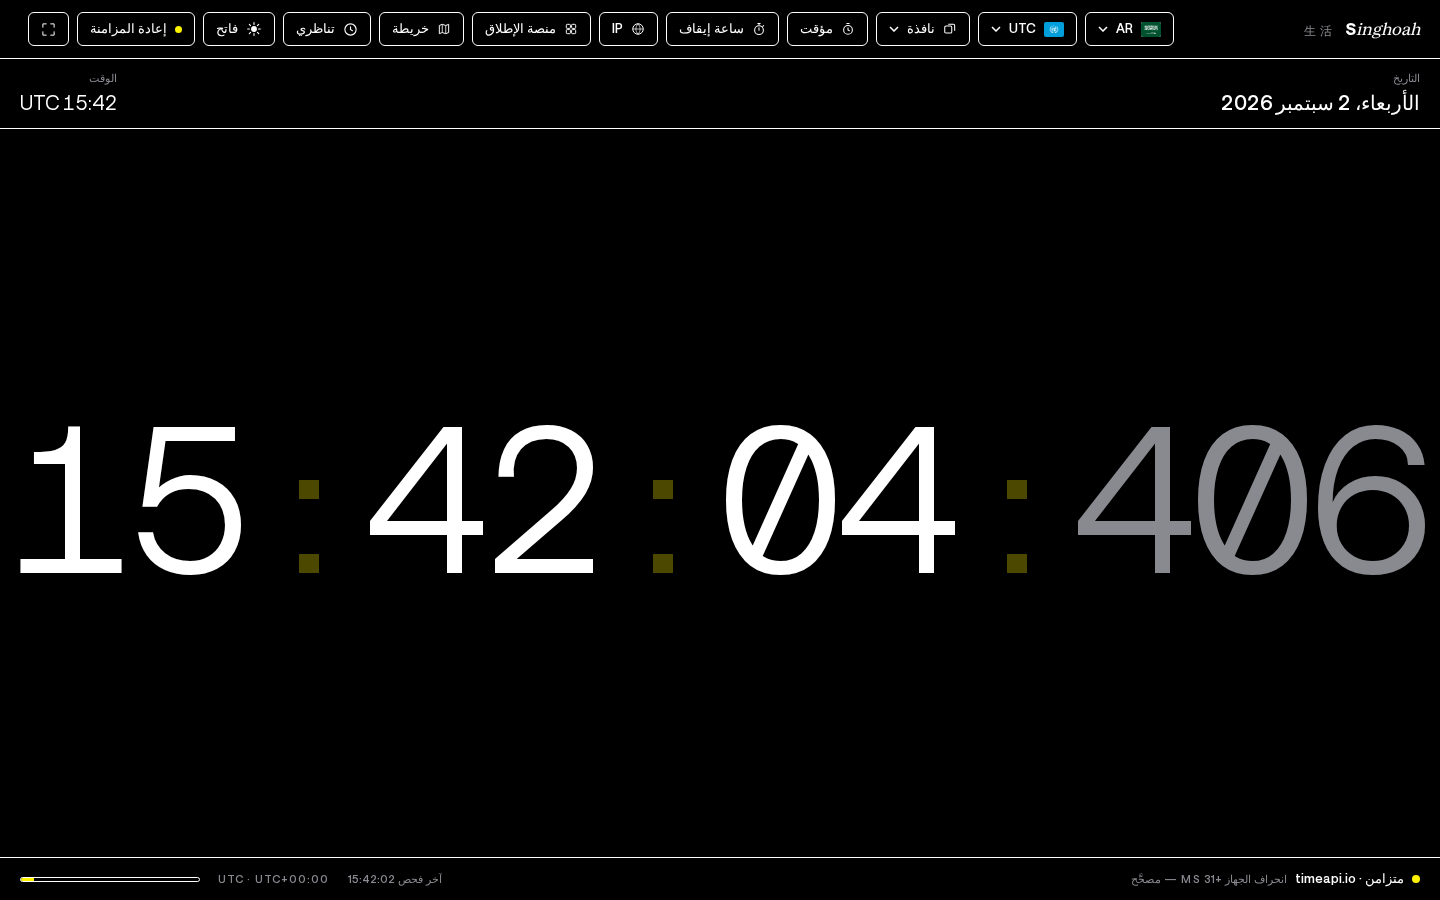
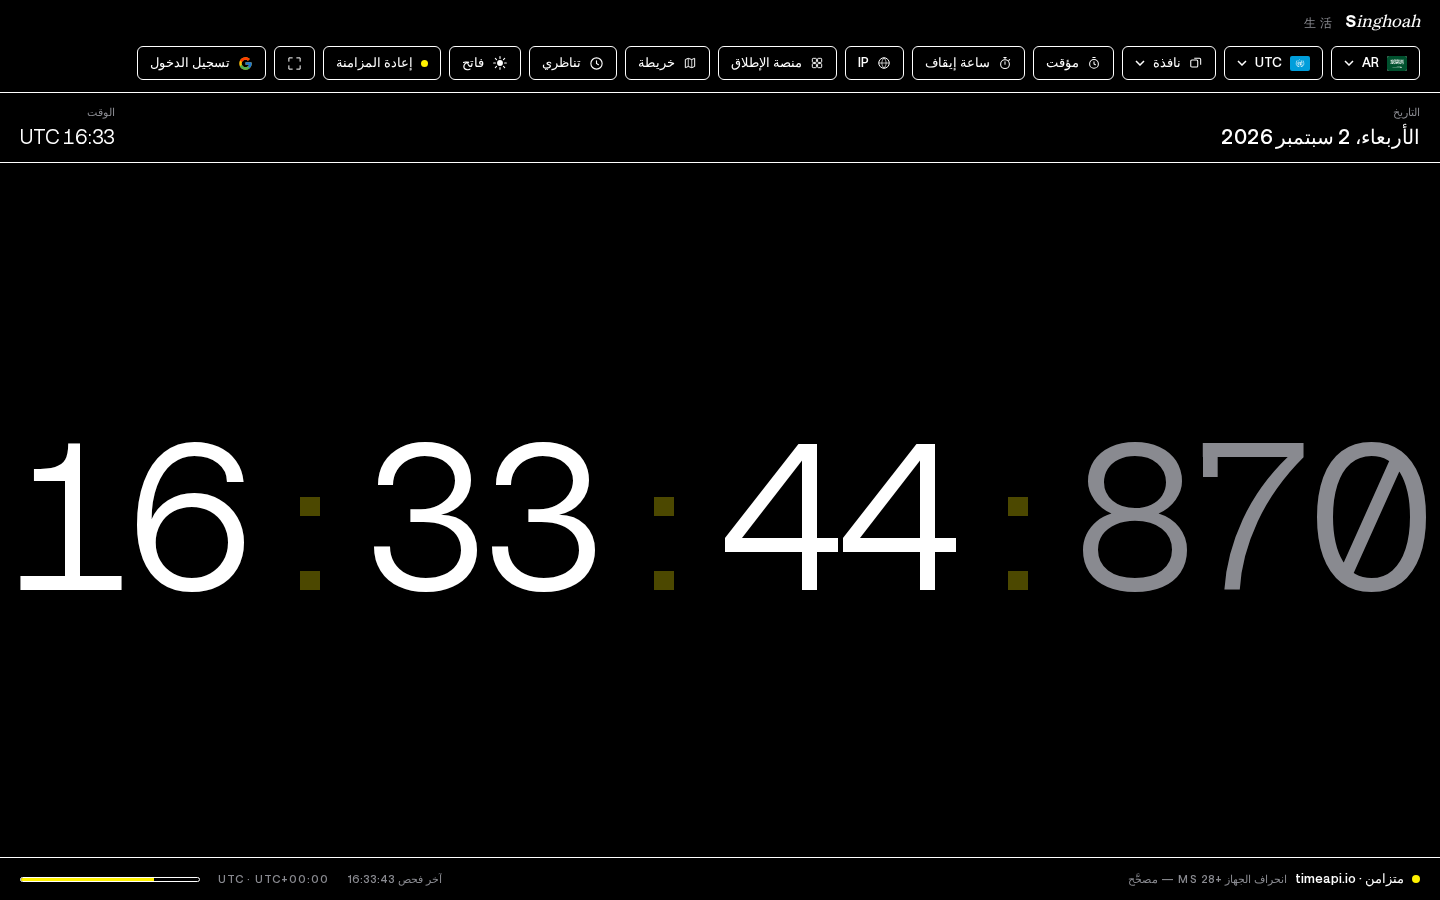
Wire live Firebase config (project singhoah1) + lazy-load the auth SDK

diff --git a/auth.js b/auth.js
@@ -1,25 +1,18 @@
 /* Optional "Sign in with Google" via Firebase Auth.
-   Silent unless firebase-config.js holds real keys; degrades to
-   nothing when offline. Preferences (language, theme, zone, wallet)
-   are kept per account on this device, restored on sign-in. */
+   Silent unless firebase-config.js holds real keys. The Firebase
+   SDK is fetched lazily — only when the visitor clicks Sign in, or
+   returns having been signed in before — so pages stay fast and
+   offline visitors never see an error. Preferences (language,
+   theme, zone, wallet) are kept per account on this device and
+   restored on sign-in. */
 
-const G_SVG = '<svg width="15" height="15" viewBox="0 0 48 48" aria-hidden="true"><path fill="#FFC107" d="M43.6 20.5H42V20H24v8h11.3C33.7 32.7 29.2 36 24 36c-6.6 0-12-5.4-12-12s5.4-12 12-12c3.1 0 5.9 1.2 8 3l5.7-5.7C34.5 6.1 29.5 4 24 4 13 4 4 13 4 24s9 20 20 20 20-9 20-20c0-1.2-.1-2.3-.4-3.5z"/><path fill="#FF3D00" d="M6.3 14.7l6.6 4.8C14.7 15.1 19 12 24 12c3.1 0 5.9 1.2 8 3l5.7-5.7C34.5 6.1 29.5 4 24 4 16.3 4 9.7 8.3 6.3 14.7z"/><path fill="#4CAF50" d="M24 44c5.2 0 9.9-2 13.4-5.2l-6.2-5.2C29.2 35.1 26.7 36 24 36c-5.2 0-9.6-3.3-11.3-8l-6.5 5C9.5 39.6 16.2 44 24 44z"/><path fill="#1976D2" d="M43.6 20.5H42V20H24v8h11.3c-.8 2.2-2.2 4.2-4.1 5.6l6.2 5.2C36.9 39.2 44 34 44 24c0-1.2-.1-2.3-.4-3.5z"/></svg>';
+const G_SVG = '<svg width="15" height="15" viewBox="0 0 48 48" aria-hidden="true"><path fill="#FFC107" d="M43.6 20.5H42V20H24v8h11.3C33.7 32.7 29.2 36 24 36c-6.6 0-12-5.4-12-12s5.4-12 12-12c3.1 0 5.9 1.2 8 3l5.7-5.7C34.5 6.1 29.5 4 24 4 13 4 4 13 4 24s9 20 20 20 20-9 20-20c0-1.2-.1-2.3-.4-3.5z"/><path fill="#FF3D00" d="M6.3 14.7l6.6 4.8C14.7 15.1 19.2 12 24 12c3.1 0 5.9 1.2 8 3l5.7-5.7C34.5 6.1 29.5 4 24 4 16.3 4 9.7 8.3 6.3 14.7z"/><path fill="#4CAF50" d="M24 44c5.2 0 9.9-2 13.4-5.2l-6.2-5.2C29.2 35.1 26.7 36 24 36c-5.2 0-9.6-3.3-11.3-8l-6.5 5C9.5 39.6 16.2 44 24 44z"/><path fill="#1976D2" d="M43.6 20.5H42V20H24v8h11.3c-.8 2.2-2.2 4.2-4.1 5.6l6.2 5.2C36.9 39.2 44 34 44 24c0-1.2-.1-2.3-.4-3.5z"/></svg>';
 
-(async () => {
+(() => {
   const wrap = document.getElementById('authWrap');
   if (!wrap) return;
   const CFG = globalThis.SINGHOAH_FIREBASE;
   if (!CFG || /PASTE|YOUR_/.test(`${CFG.apiKey}|${CFG.projectId}|${CFG.appId}`)) return;
-
-  let auth, G;
-  try {
-    const [appM, authM] = await Promise.all([
-      import('https://www.gstatic.com/firebasejs/10.12.2/firebase-app.js'),
-      import('https://www.gstatic.com/firebasejs/10.12.2/firebase-auth.js'),
-    ]);
-    G = authM;
-    auth = authM.getAuth(appM.initializeApp(CFG));
-  } catch { return; }   /* offline / blocked CDN: no portal */
 
   const PREF_KEYS = ['singhoah:lang', 'singhoah:night', 'singhoah:tz', 'singhoah:wallet'];
   const profileKey = (uid) => 'singhoah:profile:' + uid;
@@ -39,6 +32,18 @@ const G_SVG = '<svg width="15" height="15" viewBox="0 0 48 48" aria-hidden="true
   };
 
   let user = null;
+  let fb = null;               /* { G, auth } once the SDK is loaded */
+
+  function loadFB() {
+    if (fb) return Promise.resolve(fb);
+    return Promise.all([
+      import('https://www.gstatic.com/firebasejs/10.12.2/firebase-app.js'),
+      import('https://www.gstatic.com/firebasejs/10.12.2/firebase-auth.js'),
+    ]).then(([appM, authM]) => {
+      fb = { G: authM, auth: authM.getAuth(appM.initializeApp(CFG)) };
+      return fb;
+    });
+  }
 
   function render() {
     const t = tOf();
@@ -46,12 +51,15 @@ const G_SVG = '<svg width="15" height="15" viewBox="0 0 48 48" aria-hidden="true
     if (!user) {
       const b = document.createElement('button');
       b.type = 'button';
+      b.id = 'signinBtn';
       b.className = 'btn auth-btn';
       b.title = 'Google';
       b.innerHTML = `${G_SVG}<span></span>`;
       b.querySelector('span').textContent = t('signin');
       b.addEventListener('click', () => {
-        G.signInWithPopup(auth, new G.GoogleAuthProvider()).catch(() => { /* dismissed */ });
+        loadFB()
+          .then(({ G, auth }) => G.signInWithPopup(auth, new G.GoogleAuthProvider()))
+          .catch(() => { /* dismissed / offline: stay signed out */ });
       });
       wrap.appendChild(b);
       return;
@@ -96,7 +104,10 @@ const G_SVG = '<svg width="15" height="15" viewBox="0 0 48 48" aria-hidden="true
     out.textContent = t('signout');
     out.addEventListener('click', () => {
       try { sessionStorage.removeItem('singhoah:authrestored'); } catch { /* ignore */ }
-      G.signOut(auth);
+      try { localStorage.removeItem('singhoah:authseen'); } catch { /* ignore */ }
+      if (fb) fb.G.signOut(fb.auth);
+      user = null;
+      render();
     });
     pop.append(head, out);
     wrap.append(chip, pop);
@@ -109,30 +120,41 @@ const G_SVG = '<svg width="15" height="15" viewBox="0 0 48 48" aria-hidden="true
   });
   document.addEventListener('singhoah:lang', render);
 
-  G.onAuthStateChanged(auth, (u) => {
-    const was = user;
-    user = u;
-    if (u && !was) {
-      let saved = null;
-      try { saved = JSON.parse(localStorage.getItem(profileKey(u.uid)) || 'null'); } catch { /* ignore */ }
-      let restored = false;
-      try { restored = sessionStorage.getItem('singhoah:authrestored') === '1'; } catch { /* ignore */ }
-      if (saved && typeof saved === 'object' && !restored) {
-        for (const k of PREF_KEYS) if (typeof saved[k] === 'string') localStorage.setItem(k, saved[k]);
-        try { sessionStorage.setItem('singhoah:authrestored', '1'); } catch { /* ignore */ }
-        location.reload();   /* let every app pick up the restored prefs */
-        return;
-      }
-      if (!saved) {
-        try { localStorage.setItem(profileKey(u.uid), JSON.stringify(readPrefs())); } catch { /* ignore */ }
-      }
-    }
-    render();
-  });
+  function attach() {
+    loadFB().then(({ G, auth }) => {
+      G.onAuthStateChanged(auth, (u) => {
+        const was = user;
+        user = u;
+        if (u) {
+          try { localStorage.setItem('singhoah:authseen', '1'); } catch { /* ignore */ }
+        }
+        if (u && !was) {
+          let saved = null;
+          try { saved = JSON.parse(localStorage.getItem(profileKey(u.uid)) || 'null'); } catch { /* ignore */ }
+          let restored = false;
+          try { restored = sessionStorage.getItem('singhoah:authrestored') === '1'; } catch { /* ignore */ }
+          if (saved && typeof saved === 'object' && !restored) {
+            for (const k of PREF_KEYS) if (typeof saved[k] === 'string') localStorage.setItem(k, saved[k]);
+            try { sessionStorage.setItem('singhoah:authrestored', '1'); } catch { /* ignore */ }
+            location.reload();   /* let every app pick up the restored prefs */
+            return;
+          }
+          if (!saved) {
+            try { localStorage.setItem(profileKey(u.uid), JSON.stringify(readPrefs())); } catch { /* ignore */ }
+          }
+        }
+        render();
+      });
+      addEventListener('beforeunload', () => {
+        if (user) {
+          try { localStorage.setItem(profileKey(user.uid), JSON.stringify(readPrefs())); } catch { /* ignore */ }
+        }
+      });
+    }).catch(() => { /* offline / blocked CDN: button stays, no session */ });
+  }
 
-  addEventListener('beforeunload', () => {
-    if (user) {
-      try { localStorage.setItem(profileKey(user.uid), JSON.stringify(readPrefs())); } catch { /* ignore */ }
-    }
-  });
+  render();                                   /* Sign-in button, zero network */
+  let seen = false;
+  try { seen = localStorage.getItem('singhoah:authseen') === '1'; } catch { /* ignore */ }
+  if (seen) attach();                         /* restore a previous session */
 })();

diff --git a/src/auth.js b/src/auth.js
@@ -1,25 +1,18 @@
 /* Optional "Sign in with Google" via Firebase Auth.
-   Silent unless firebase-config.js holds real keys; degrades to
-   nothing when offline. Preferences (language, theme, zone, wallet)
-   are kept per account on this device, restored on sign-in. */
+   Silent unless firebase-config.js holds real keys. The Firebase
+   SDK is fetched lazily — only when the visitor clicks Sign in, or
+   returns having been signed in before — so pages stay fast and
+   offline visitors never see an error. Preferences (language,
+   theme, zone, wallet) are kept per account on this device and
+   restored on sign-in. */
 
-const G_SVG = '<svg width="15" height="15" viewBox="0 0 48 48" aria-hidden="true"><path fill="#FFC107" d="M43.6 20.5H42V20H24v8h11.3C33.7 32.7 29.2 36 24 36c-6.6 0-12-5.4-12-12s5.4-12 12-12c3.1 0 5.9 1.2 8 3l5.7-5.7C34.5 6.1 29.5 4 24 4 13 4 4 13 4 24s9 20 20 20 20-9 20-20c0-1.2-.1-2.3-.4-3.5z"/><path fill="#FF3D00" d="M6.3 14.7l6.6 4.8C14.7 15.1 19 12 24 12c3.1 0 5.9 1.2 8 3l5.7-5.7C34.5 6.1 29.5 4 24 4 16.3 4 9.7 8.3 6.3 14.7z"/><path fill="#4CAF50" d="M24 44c5.2 0 9.9-2 13.4-5.2l-6.2-5.2C29.2 35.1 26.7 36 24 36c-5.2 0-9.6-3.3-11.3-8l-6.5 5C9.5 39.6 16.2 44 24 44z"/><path fill="#1976D2" d="M43.6 20.5H42V20H24v8h11.3c-.8 2.2-2.2 4.2-4.1 5.6l6.2 5.2C36.9 39.2 44 34 44 24c0-1.2-.1-2.3-.4-3.5z"/></svg>';
+const G_SVG = '<svg width="15" height="15" viewBox="0 0 48 48" aria-hidden="true"><path fill="#FFC107" d="M43.6 20.5H42V20H24v8h11.3C33.7 32.7 29.2 36 24 36c-6.6 0-12-5.4-12-12s5.4-12 12-12c3.1 0 5.9 1.2 8 3l5.7-5.7C34.5 6.1 29.5 4 24 4 13 4 4 13 4 24s9 20 20 20 20-9 20-20c0-1.2-.1-2.3-.4-3.5z"/><path fill="#FF3D00" d="M6.3 14.7l6.6 4.8C14.7 15.1 19.2 12 24 12c3.1 0 5.9 1.2 8 3l5.7-5.7C34.5 6.1 29.5 4 24 4 16.3 4 9.7 8.3 6.3 14.7z"/><path fill="#4CAF50" d="M24 44c5.2 0 9.9-2 13.4-5.2l-6.2-5.2C29.2 35.1 26.7 36 24 36c-5.2 0-9.6-3.3-11.3-8l-6.5 5C9.5 39.6 16.2 44 24 44z"/><path fill="#1976D2" d="M43.6 20.5H42V20H24v8h11.3c-.8 2.2-2.2 4.2-4.1 5.6l6.2 5.2C36.9 39.2 44 34 44 24c0-1.2-.1-2.3-.4-3.5z"/></svg>';
 
-(async () => {
+(() => {
   const wrap = document.getElementById('authWrap');
   if (!wrap) return;
   const CFG = globalThis.SINGHOAH_FIREBASE;
   if (!CFG || /PASTE|YOUR_/.test(`${CFG.apiKey}|${CFG.projectId}|${CFG.appId}`)) return;
-
-  let auth, G;
-  try {
-    const [appM, authM] = await Promise.all([
-      import('https://www.gstatic.com/firebasejs/10.12.2/firebase-app.js'),
-      import('https://www.gstatic.com/firebasejs/10.12.2/firebase-auth.js'),
-    ]);
-    G = authM;
-    auth = authM.getAuth(appM.initializeApp(CFG));
-  } catch { return; }   /* offline / blocked CDN: no portal */
 
   const PREF_KEYS = ['singhoah:lang', 'singhoah:night', 'singhoah:tz', 'singhoah:wallet'];
   const profileKey = (uid) => 'singhoah:profile:' + uid;
@@ -39,6 +32,18 @@ const G_SVG = '<svg width="15" height="15" viewBox="0 0 48 48" aria-hidden="true
   };
 
   let user = null;
+  let fb = null;               /* { G, auth } once the SDK is loaded */
+
+  function loadFB() {
+    if (fb) return Promise.resolve(fb);
+    return Promise.all([
+      import('https://www.gstatic.com/firebasejs/10.12.2/firebase-app.js'),
+      import('https://www.gstatic.com/firebasejs/10.12.2/firebase-auth.js'),
+    ]).then(([appM, authM]) => {
+      fb = { G: authM, auth: authM.getAuth(appM.initializeApp(CFG)) };
+      return fb;
+    });
+  }
 
   function render() {
     const t = tOf();
@@ -46,12 +51,15 @@ const G_SVG = '<svg width="15" height="15" viewBox="0 0 48 48" aria-hidden="true
     if (!user) {
       const b = document.createElement('button');
       b.type = 'button';
+      b.id = 'signinBtn';
       b.className = 'btn auth-btn';
       b.title = 'Google';
       b.innerHTML = `${G_SVG}<span></span>`;
       b.querySelector('span').textContent = t('signin');
       b.addEventListener('click', () => {
-        G.signInWithPopup(auth, new G.GoogleAuthProvider()).catch(() => { /* dismissed */ });
+        loadFB()
+          .then(({ G, auth }) => G.signInWithPopup(auth, new G.GoogleAuthProvider()))
+          .catch(() => { /* dismissed / offline: stay signed out */ });
       });
       wrap.appendChild(b);
       return;
@@ -96,7 +104,10 @@ const G_SVG = '<svg width="15" height="15" viewBox="0 0 48 48" aria-hidden="true
     out.textContent = t('signout');
     out.addEventListener('click', () => {
       try { sessionStorage.removeItem('singhoah:authrestored'); } catch { /* ignore */ }
-      G.signOut(auth);
+      try { localStorage.removeItem('singhoah:authseen'); } catch { /* ignore */ }
+      if (fb) fb.G.signOut(fb.auth);
+      user = null;
+      render();
     });
     pop.append(head, out);
     wrap.append(chip, pop);
@@ -109,30 +120,41 @@ const G_SVG = '<svg width="15" height="15" viewBox="0 0 48 48" aria-hidden="true
   });
   document.addEventListener('singhoah:lang', render);
 
-  G.onAuthStateChanged(auth, (u) => {
-    const was = user;
-    user = u;
-    if (u && !was) {
-      let saved = null;
-      try { saved = JSON.parse(localStorage.getItem(profileKey(u.uid)) || 'null'); } catch { /* ignore */ }
-      let restored = false;
-      try { restored = sessionStorage.getItem('singhoah:authrestored') === '1'; } catch { /* ignore */ }
-      if (saved && typeof saved === 'object' && !restored) {
-        for (const k of PREF_KEYS) if (typeof saved[k] === 'string') localStorage.setItem(k, saved[k]);
-        try { sessionStorage.setItem('singhoah:authrestored', '1'); } catch { /* ignore */ }
-        location.reload();   /* let every app pick up the restored prefs */
-        return;
-      }
-      if (!saved) {
-        try { localStorage.setItem(profileKey(u.uid), JSON.stringify(readPrefs())); } catch { /* ignore */ }
-      }
-    }
-    render();
-  });
+  function attach() {
+    loadFB().then(({ G, auth }) => {
+      G.onAuthStateChanged(auth, (u) => {
+        const was = user;
+        user = u;
+        if (u) {
+          try { localStorage.setItem('singhoah:authseen', '1'); } catch { /* ignore */ }
+        }
+        if (u && !was) {
+          let saved = null;
+          try { saved = JSON.parse(localStorage.getItem(profileKey(u.uid)) || 'null'); } catch { /* ignore */ }
+          let restored = false;
+          try { restored = sessionStorage.getItem('singhoah:authrestored') === '1'; } catch { /* ignore */ }
+          if (saved && typeof saved === 'object' && !restored) {
+            for (const k of PREF_KEYS) if (typeof saved[k] === 'string') localStorage.setItem(k, saved[k]);
+            try { sessionStorage.setItem('singhoah:authrestored', '1'); } catch { /* ignore */ }
+            location.reload();   /* let every app pick up the restored prefs */
+            return;
+          }
+          if (!saved) {
+            try { localStorage.setItem(profileKey(u.uid), JSON.stringify(readPrefs())); } catch { /* ignore */ }
+          }
+        }
+        render();
+      });
+      addEventListener('beforeunload', () => {
+        if (user) {
+          try { localStorage.setItem(profileKey(user.uid), JSON.stringify(readPrefs())); } catch { /* ignore */ }
+        }
+      });
+    }).catch(() => { /* offline / blocked CDN: button stays, no session */ });
+  }
 
-  addEventListener('beforeunload', () => {
-    if (user) {
-      try { localStorage.setItem(profileKey(user.uid), JSON.stringify(readPrefs())); } catch { /* ignore */ }
-    }
-  });
+  render();                                   /* Sign-in button, zero network */
+  let seen = false;
+  try { seen = localStorage.getItem('singhoah:authseen') === '1'; } catch { /* ignore */ }
+  if (seen) attach();                         /* restore a previous session */
 })();

diff --git a/firebase-config.js b/firebase-config.js
@@ -1,23 +1,22 @@
 /* ============================================================
    Singhoah — Firebase web-app config (optional Google sign-in)
 
-   Setup (once, in your own Google account):
-   1. https://console.firebase.google.com → Add project (any name).
-   2. Project settings → "Your apps" → Web (</>) → Register app.
-   3. Copy the firebaseConfig values into the object below.
-   4. Build → Authentication → Get started → Sign-in method →
-      enable "Google".
-   5. Authentication → Settings → Authorized domains → add
-      maxander08.github.io  (localhost is pre-added for dev).
-   6. Rebuild (python3 build.py) and push; the Sign-in button
-      appears on all three apps.
+   Live config for project "singhoah1" (owner: maxander08).
+   The portal renders the Sign-in button whenever this object
+   holds real values; the Firebase SDK itself is only fetched
+   when the visitor clicks Sign in (or returns signed-in).
 
-   Until real values are pasted here the portal stays completely
-   hidden and every app behaves exactly as before.
+   For your own fork: console.firebase.google.com → your project
+   → Project settings → Your apps → web app → Config, and paste
+   your four values below. To keep the portal dormant, put back
+   the PASTE_/YOUR_ placeholders.
    ============================================================ */
 globalThis.SINGHOAH_FIREBASE = {
-  apiKey: "PASTE_YOUR_API_KEY",
-  authDomain: "YOUR_PROJECT.firebaseapp.com",
-  projectId: "YOUR_PROJECT",
-  appId: "PASTE_YOUR_APP_ID",
+  apiKey: "AIzaSyB1KtuJ2D6tqjH76kLedbBtaZXHhczT_kc",
+  authDomain: "singhoah1.firebaseapp.com",
+  projectId: "singhoah1",
+  storageBucket: "singhoah1.firebasestorage.app",
+  messagingSenderId: "1039848089676",
+  appId: "1:1039848089676:web:8d3df49328bc5a2730ace9",
+  measurementId: "G-PPRM1R6V95",
 };

diff --git a/src/firebase-config.js b/src/firebase-config.js
@@ -1,23 +1,22 @@
 /* ============================================================
    Singhoah — Firebase web-app config (optional Google sign-in)
 
-   Setup (once, in your own Google account):
-   1. https://console.firebase.google.com → Add project (any name).
-   2. Project settings → "Your apps" → Web (</>) → Register app.
-   3. Copy the firebaseConfig values into the object below.
-   4. Build → Authentication → Get started → Sign-in method →
-      enable "Google".
-   5. Authentication → Settings → Authorized domains → add
-      maxander08.github.io  (localhost is pre-added for dev).
-   6. Rebuild (python3 build.py) and push; the Sign-in button
-      appears on all three apps.
+   Live config for project "singhoah1" (owner: maxander08).
+   The portal renders the Sign-in button whenever this object
+   holds real values; the Firebase SDK itself is only fetched
+   when the visitor clicks Sign in (or returns signed-in).
 
-   Until real values are pasted here the portal stays completely
-   hidden and every app behaves exactly as before.
+   For your own fork: console.firebase.google.com → your project
+   → Project settings → Your apps → web app → Config, and paste
+   your four values below. To keep the portal dormant, put back
+   the PASTE_/YOUR_ placeholders.
    ============================================================ */
 globalThis.SINGHOAH_FIREBASE = {
-  apiKey: "PASTE_YOUR_API_KEY",
-  authDomain: "YOUR_PROJECT.firebaseapp.com",
-  projectId: "YOUR_PROJECT",
-  appId: "PASTE_YOUR_APP_ID",
+  apiKey: "AIzaSyB1KtuJ2D6tqjH76kLedbBtaZXHhczT_kc",
+  authDomain: "singhoah1.firebaseapp.com",
+  projectId: "singhoah1",
+  storageBucket: "singhoah1.firebasestorage.app",
+  messagingSenderId: "1039848089676",
+  appId: "1:1039848089676:web:8d3df49328bc5a2730ace9",
+  measurementId: "G-PPRM1R6V95",
 };

diff --git a/README.md b/README.md
@@ -134,7 +134,9 @@ Clock / wallet / launchpad each carry a small **optional** sign-in portal in the
 preferences (language, theme, city, wallet currency) sync per account across devices and
 browsers. Everything stays public without it — no sign-in wall.
 
-It ships **dormant** with a placeholder config. To light it up (free tier is plenty):
+This repo ships configured for the live `maxander08.github.io` deployment
+(Firebase project `singhoah1`, free Spark tier). For your own fork, point it at your own
+project:
 
 1. Go to <https://console.firebase.google.com> → *Add project* (any name, e.g. `singhoah`).
 2. In the project: *Build → Authentication → Get started → Sign-in method* → enable
@@ -145,8 +147,10 @@ It ships **dormant** with a placeholder config. To light it up (free tier is ple
 5. *Authentication → Settings → Authorized domains*: add the domain you serve the site
    from (Pages adds `*.github.io` automatically).
 
-Nothing else changes: the portal detects a real config and activates on its own. The
-standalone single-file builds never include the portal (they are meant to run offline).
+Nothing else changes: the portal detects a real config and activates on its own, and
+the Firebase SDK is only downloaded when someone actually clicks Sign in. Put the
+`PASTE_`/`YOUR_` placeholders back and it goes fully dormant again. The standalone
+single-file builds never include the portal (they are meant to run offline).
 
 ## Layout
 
